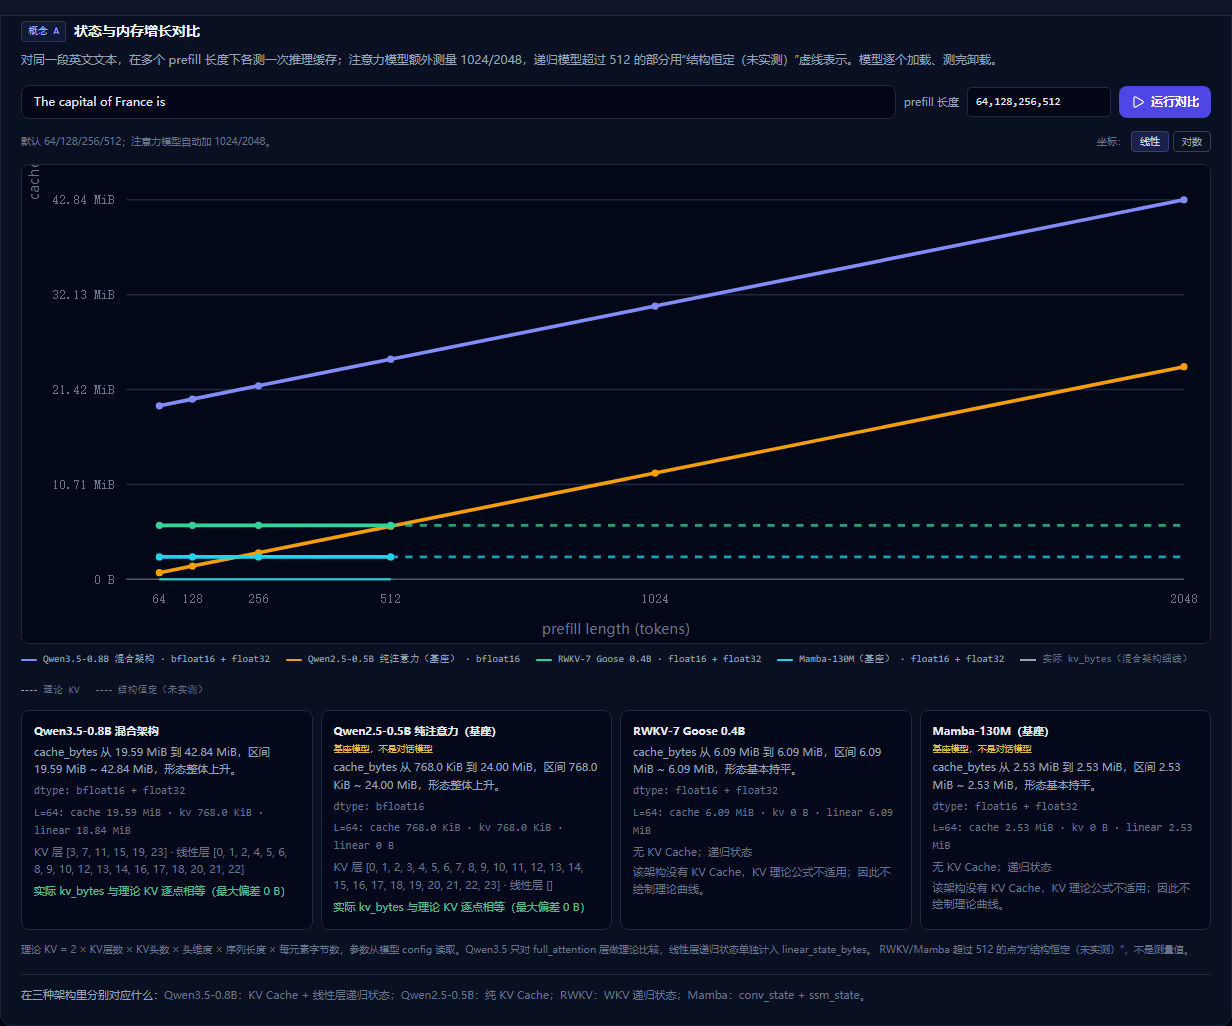
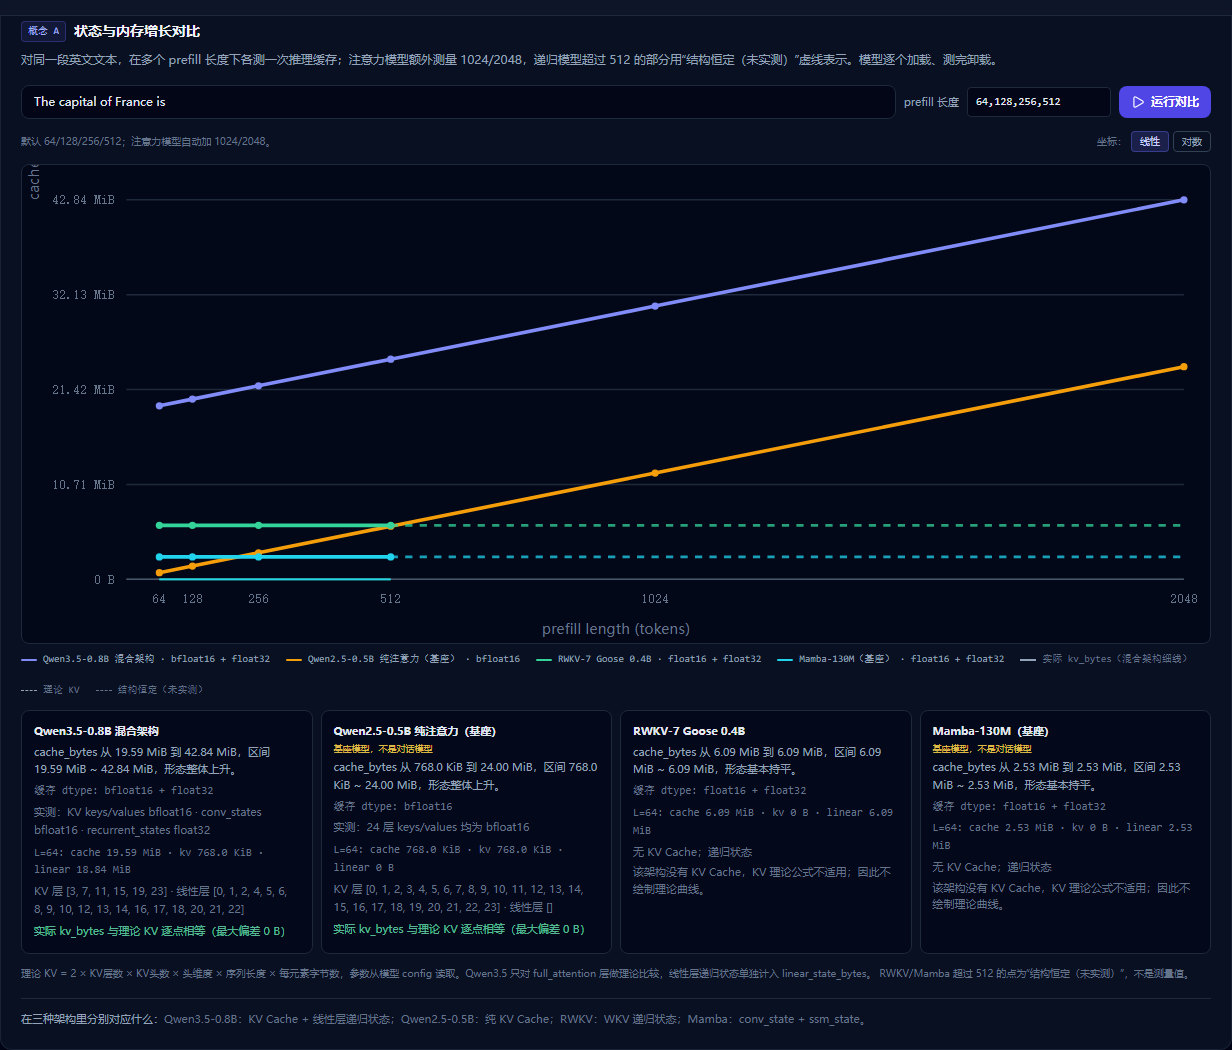
docs(concept): 按实测 dtype 标注 Qwen 缓存张量

diff --git a/frontend/src/components/ConceptLab.tsx b/frontend/src/components/ConceptLab.tsx
@@ -357,7 +357,17 @@ const ConceptA: React.FC<{ apiBase: string }> = ({ apiBase }) => {
                     {model.available ? (
                       <>
                         <p className="mt-1 leading-relaxed">{model.cache_series_note}</p>
-                        <p className="mt-1 text-slate-500 font-mono">dtype: {first?.dtype_label || '—'}</p>
+                        <p className="mt-1 text-slate-500 font-mono">缓存 dtype: {first?.dtype_label || '—'}</p>
+                        {model.model_type === 'transformer' && (
+                          <p className="mt-1 text-slate-500 leading-relaxed">
+                            实测：KV keys/values bfloat16 · conv_states bfloat16 · recurrent_states float32
+                          </p>
+                        )}
+                        {model.model_type === 'attention_baseline' && (
+                          <p className="mt-1 text-slate-500 leading-relaxed">
+                            实测：{fullLayers.length} 层 keys/values 均为 bfloat16
+                          </p>
+                        )}
                         {first && (
                           <p className="mt-1 text-slate-500 font-mono leading-relaxed">
                             L={first.length}: cache {formatBytes(first.cache_bytes)} · kv {formatBytes(first.kv_bytes)} · linear {formatBytes(first.linear_state_bytes)}
